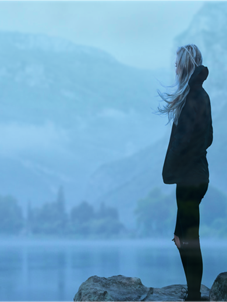
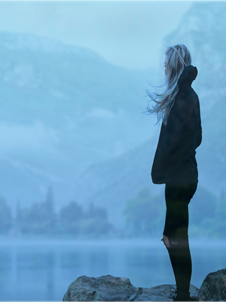
fixed index header and pixelated image

diff --git a/css/hero.css b/css/hero.css
@@ -92,13 +92,14 @@ nav {
 		background-image: url("../images/desktop--hero.png");
 		background-size: cover;
 		background-repeat: no-repeat;
-		background-position: right top;
+		background-position: right;
 		min-height: 100vh;
 	}
 
 	.header-hero {
 		display: flex;
 		justify-content: space-between;
+		padding-inline-end: 15em;
 	}
 
 	.logo-hero__img {
